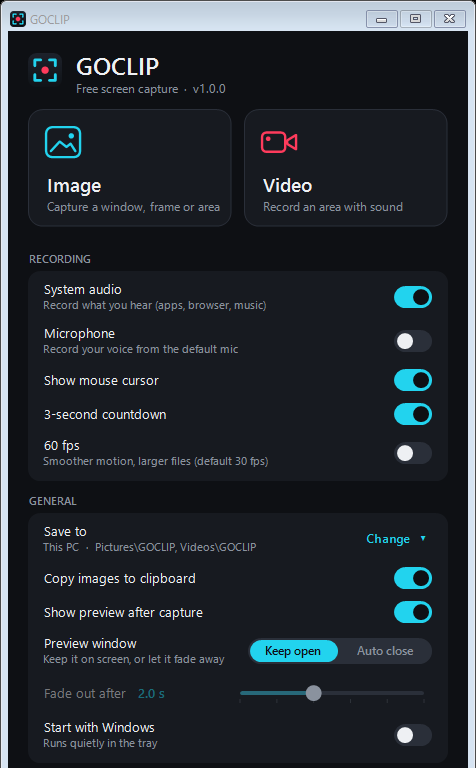
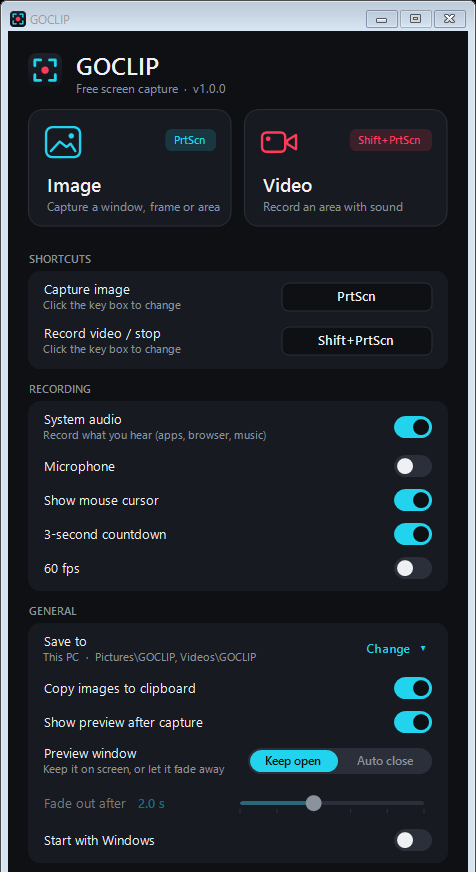
GOCLIP 1.0.1 — PrtScn by default, customizable shortcuts
Claude-Session: https://claude.ai/code/session_01Ew7CtGzvEB9MNhbGErwHfk

diff --git a/README.md b/README.md
@@ -16,6 +16,7 @@ Hover to find the frame. Click to capture.</p>
 - **Save anywhere** — This PC, Google Drive, OneDrive, Dropbox, iCloud Drive, Box, a NAS or any folder.
 - **Share** — Windows share, email, Gmail, Outlook.com, X, Facebook, LinkedIn, Threads, Bluesky.
 - **Preview your way** — keep the preview open, or let it fade out after 0–5 seconds.
+- **Your shortcuts** — PrtScn by default; set any key combination you like.
 - **Tiny and portable** — a single ~0.6 MB `.exe`. No installer, no account, no ads, no watermark.
 
 <p align="center"><img src="docs/launcher.png" width="360" alt="GOCLIP main window"></p>
@@ -28,8 +29,10 @@ Hover to find the frame. Click to capture.</p>
 
 | Action | Shortcut |
 |---|---|
-| Capture image | `PrtScn` or `Ctrl+Shift+1` |
-| Record video (press again to stop) | `Shift+PrtScn` or `Ctrl+Shift+2` |
+| Capture image | `PrtScn` |
+| Record video (press again to stop) | `Shift+PrtScn` |
+
+Change either shortcut under **SHORTCUTS** in the GOCLIP window — click the key box and press the new keys. If another app also uses PrtScn, GOCLIP takes priority while it runs.
 
 While selecting: **click** a frame · **drag** your own area · **wheel** wider / finer · **Space** whole monitor · **arrow keys** move 1 px · **Esc** cancel.
 
@@ -40,8 +43,6 @@ While selecting: **click** a frame · **drag** your own area · **wheel** wider 
 Windows 10 (version 2004 or later) or Windows 11, 64‑bit. Uses the H.264/AAC encoders built into Windows; nothing else to install.
 
 > **"Windows protected your PC"?** New apps show this until they build a reputation. Click **More info → Run anyway**.
-
-> **PrtScn does nothing?** Another app (or Windows' "Use the Print screen key to open screen capture" setting) owns the key. Use `Ctrl+Shift+1` / `Ctrl+Shift+2`.
 
 ## Privacy
 
